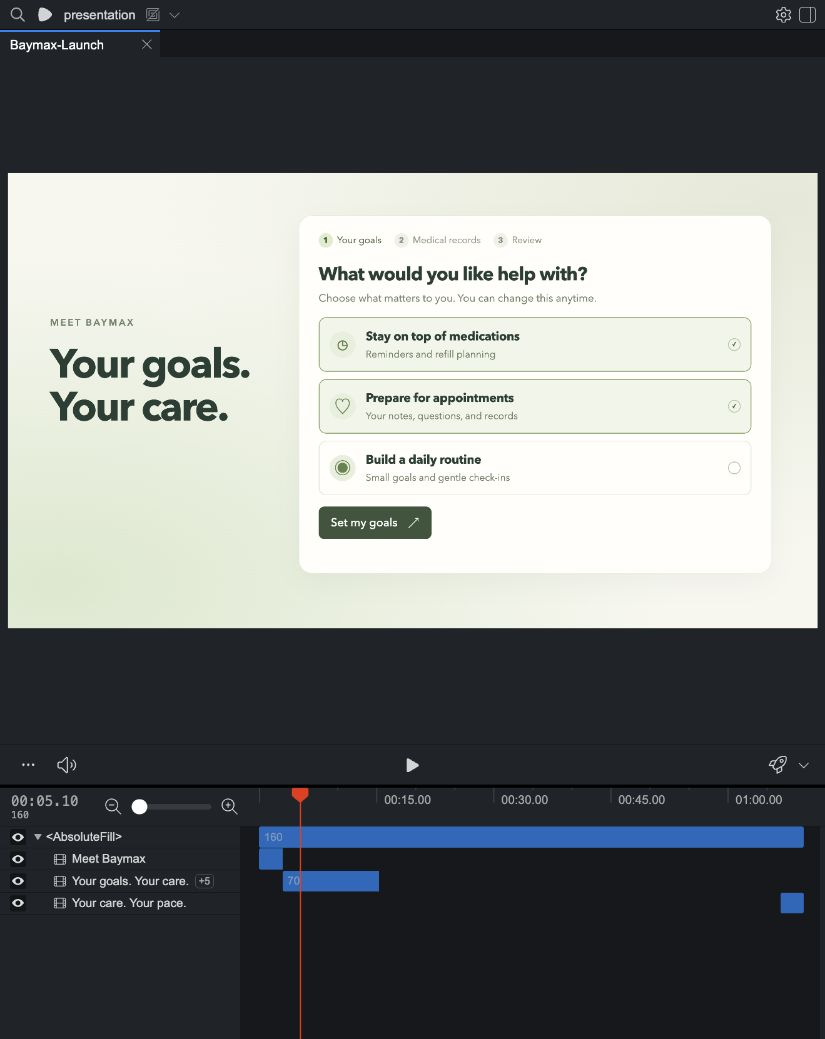
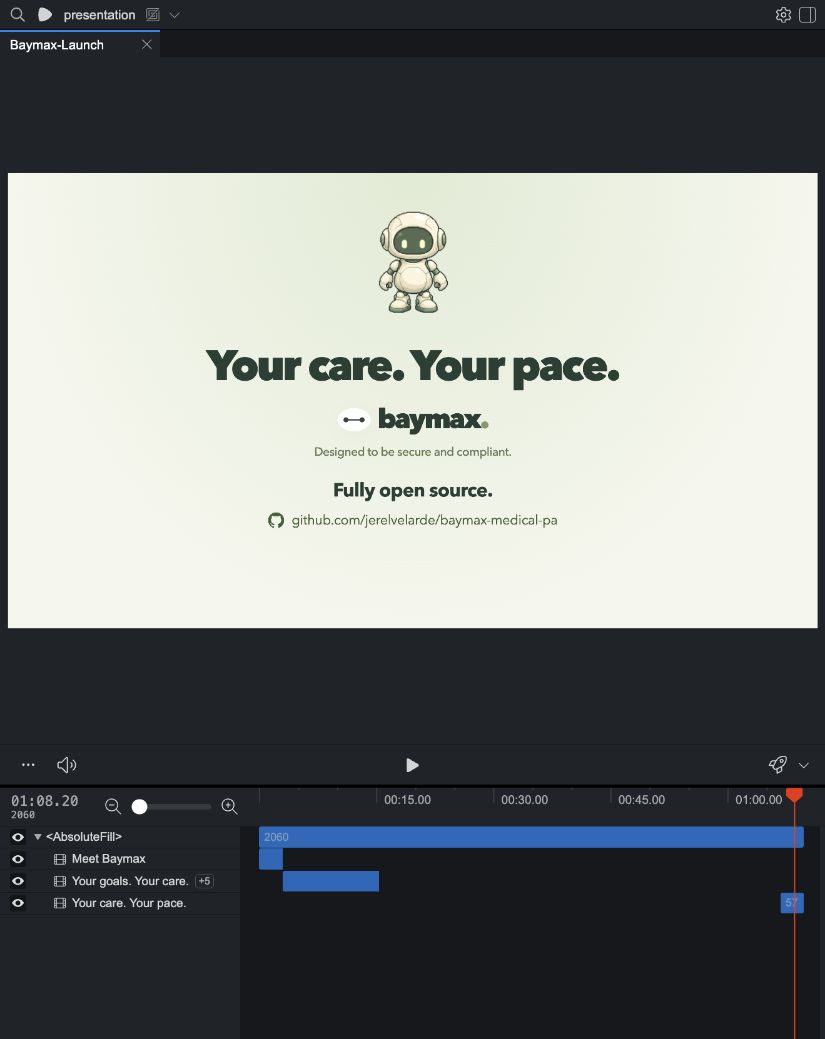
Add open-source GitHub closing card

diff --git a/presentation/src/video.css b/presentation/src/video.css
@@ -39,3 +39,5 @@
 .reminder-copy{left:110px;width:700px;top:290px}.reminder-copy h2{font-size:96px;letter-spacing:-4px}.reminder-cards{position:absolute;left:900px;top:100px;width:900px;display:flex;flex-direction:column;gap:24px}.reminder-card{background:#fcfff7;border:1px solid #dfe8d5;border-radius:30px;padding:26px 32px;box-shadow:0 12px 35px #304f320d}.reminder-card .notification-source{font-size:18px;letter-spacing:1px;align-items:center}.reminder-card .notification-source>span:first-child{display:flex;align-items:center;gap:12px}.notification-face{font-style:normal;letter-spacing:0;background:#e8efde;border-radius:12px;width:38px;height:32px;display:grid;place-items:center}.reminder-card h3{font-size:31px;line-height:1.2;letter-spacing:-.7px;margin:17px 0 10px}.reminder-card p{font-size:27px;line-height:1.3;color:#65775a;margin:0}.reminder-card .notification-actions{font-size:24px;margin-top:19px;gap:14px}.reminder-card .notification-actions span{padding:11px 22px}.reminder-card .notification-actions span:first-child{background:#a6c675}
 
 .onboarding-copy{position:absolute;left:100px;top:340px;width:530px}.onboarding-copy h1{font-size:96px;line-height:1.06;letter-spacing:-4px;margin:0;font-weight:650}.onboarding-stage{position:absolute;left:690px;top:100px;width:1120px;min-height:850px;border:1px solid #dce5d3;border-radius:32px;background:#fffefb;padding:42px 46px;box-shadow:0 20px 60px #304f320e}.onboarding-steps{display:flex;gap:30px;margin-bottom:38px;font-size:22px;color:#8a9581}.onboarding-steps>span{display:flex;gap:10px;align-items:center}.onboarding-steps b{height:34px;width:34px;background:#eef1e8;border-radius:50%;display:grid;place-items:center;font-size:19px}.onboarding-steps .active{color:#426136}.onboarding-steps .active b{background:#dfeccb}.onboarding-stage h2{font-size:44px;letter-spacing:-1.3px;line-height:1.2;margin:0 0 13px}.onboarding-subtitle{font-size:25px;line-height:1.35;color:#708064;margin:0 0 28px}.goal-options{display:flex;flex-direction:column;gap:17px}.goal-option{display:flex;align-items:center;gap:24px;padding:24px;border:2px solid #e0e5da;border-radius:18px;position:relative}.goal-option.selected{border-color:#87a66b;background:#f1f6e9}.goal-icon{font-size:40px;display:grid;place-items:center;width:62px;height:62px;background:#e7efdc;border-radius:50%;color:#64834b}.goal-option h3{font-size:29px;margin:0 0 7px;letter-spacing:-.4px}.goal-option p{font-size:23px;margin:0;color:#718164}.goal-check{margin-left:auto;border:2px solid #b4c3a5;width:30px;height:30px;border-radius:50%;display:grid;place-items:center;color:#426136}.onboarding-action{position:relative;display:flex;justify-content:center;align-items:center;gap:25px;border:0;background:#3d543c;color:white;font:500 27px 'Avenir Next',Arial,sans-serif;padding:18px 29px;border-radius:13px;margin-top:27px}.record-dropzone{border:2px dashed #b5c6a2;border-radius:23px;background:#f5f8ef;padding:34px;text-align:center}.record-format{display:flex;justify-content:center;gap:16px}.record-format span{background:#e1ebd5;color:#5c7947;border:1px solid #ccdabb;border-radius:12px;padding:17px 13px;font-size:24px;font-weight:650}.record-dropzone h3{font-size:29px;margin:21px 0 12px}.record-dropzone p{font-size:22px;color:#78876b}.record-dropzone .onboarding-action{margin:20px auto 0}.record-files{display:flex;flex-direction:column;gap:12px;margin-top:20px;font-size:24px}.record-files>span{display:flex;padding:15px 20px;border:1px solid #e0e7d7;border-radius:12px}.record-files b{margin-left:auto;color:#6d8b52;font-size:22px}.onboarding-note{font-size:21px;color:#7b8970;margin-top:24px}.record-review{display:flex;flex-direction:column;gap:13px}.record-review>div{padding:18px 24px;border:1px solid #dfe6d5;border-radius:14px;background:#f8faf3}.record-review span{font-size:18px;color:#7d8c70}.record-review h3{font-size:28px;margin:8px 0 5px}.record-review p{font-size:23px;color:#607651;margin:0}.record-approval{position:relative;display:flex;align-items:center;gap:12px;font-size:24px;margin-top:22px}.record-approval>span{color:#6e8c52;font-size:30px}.onboarding-done{display:flex;flex-direction:column;align-items:center;text-align:center;padding:20px 0}.onboarding-done p{font-size:27px;color:#6d805d}.onboarding-summary{display:flex;flex-direction:column;gap:16px;font-size:27px;text-align:left;margin-top:20px;color:#567542}
+
+.closing .closing-sprite{top:35px;left:805px;width:310px;height:310px;transform-origin:top center}.closing .outro-copy{top:405px}.closing .outro-copy h1{font-size:100px;margin-bottom:35px}.closing .outro-copy .brand{font-size:64px}.closing .outro-copy .positioning{font-size:28px;margin-top:22px}.open-source-cta{margin-top:42px;display:flex;flex-direction:column;align-items:center;gap:18px}.open-source-cta strong{font-size:45px;font-weight:650;letter-spacing:-1px}.open-source-cta a{display:flex;align-items:center;gap:18px;font-size:32px;color:#426136;text-decoration:none;letter-spacing:-.5px}

diff --git a/presentation/src/LaunchVideo.tsx b/presentation/src/LaunchVideo.tsx
@@ -41,7 +41,7 @@ export const DemoChapter:React.FC<{scene:DemoScene;index:number}>=({scene,index}
 
 export const Closing:React.FC=()=>{
  const f=useCurrentFrame();const {fps}=useVideoConfig();const enter=spring({frame:f-3,fps,config:{damping:24}});
- return <AbsoluteFill className="canvas closing"><div className="closing-sprite" style={{opacity:enter,transform:`translateY(${(1-enter)*28}px)`}}><MascotSprite size={390}/></div><div className="outro-copy" style={{opacity:enter}}><h1>Your care. Your pace.</h1><Brand/><p className="positioning">Designed to be secure and compliant.</p></div></AbsoluteFill>;
+ return <AbsoluteFill className="canvas closing"><div className="closing-sprite" style={{opacity:enter,transform:`translateY(${(1-enter)*28}px)`}}><MascotSprite size={310}/></div><div className="outro-copy" style={{opacity:enter}}><h1>Your care. Your pace.</h1><Brand/><p className="positioning">Designed to be secure and compliant.</p><div className="open-source-cta"><strong>Fully open source.</strong><a href="https://github.com/jerelvelarde/baymax-medical-pa"><svg viewBox="0 0 24 24" width="38" height="38" fill="currentColor" aria-label="GitHub"><path d="M12 .297a12 12 0 0 0-3.793 23.385c.6.111.82-.261.82-.577v-2.234c-3.338.726-4.043-1.416-4.043-1.416-.546-1.387-1.333-1.756-1.333-1.756-1.09-.745.083-.729.083-.729 1.205.085 1.839 1.237 1.839 1.237 1.07 1.834 2.807 1.304 3.492.997.108-.775.419-1.305.762-1.605-2.665-.305-5.467-1.334-5.467-5.931 0-1.31.469-2.381 1.236-3.221-.124-.303-.535-1.523.117-3.176 0 0 1.008-.323 3.301 1.23a11.52 11.52 0 0 1 6.006 0c2.291-1.553 3.297-1.23 3.297-1.23.654 1.653.243 2.873.119 3.176.77.84 1.235 1.911 1.235 3.221 0 4.609-2.807 5.624-5.479 5.921.43.372.823 1.102.823 2.222v3.293c0 .319.216.694.825.576A12 12 0 0 0 12 .297z"/></svg><span>github.com/jerelvelarde/baymax-medical-pa</span></a></div></div></AbsoluteFill>;
 };
 export const LaunchVideo:React.FC=()=>{
  let start=INTRO;
